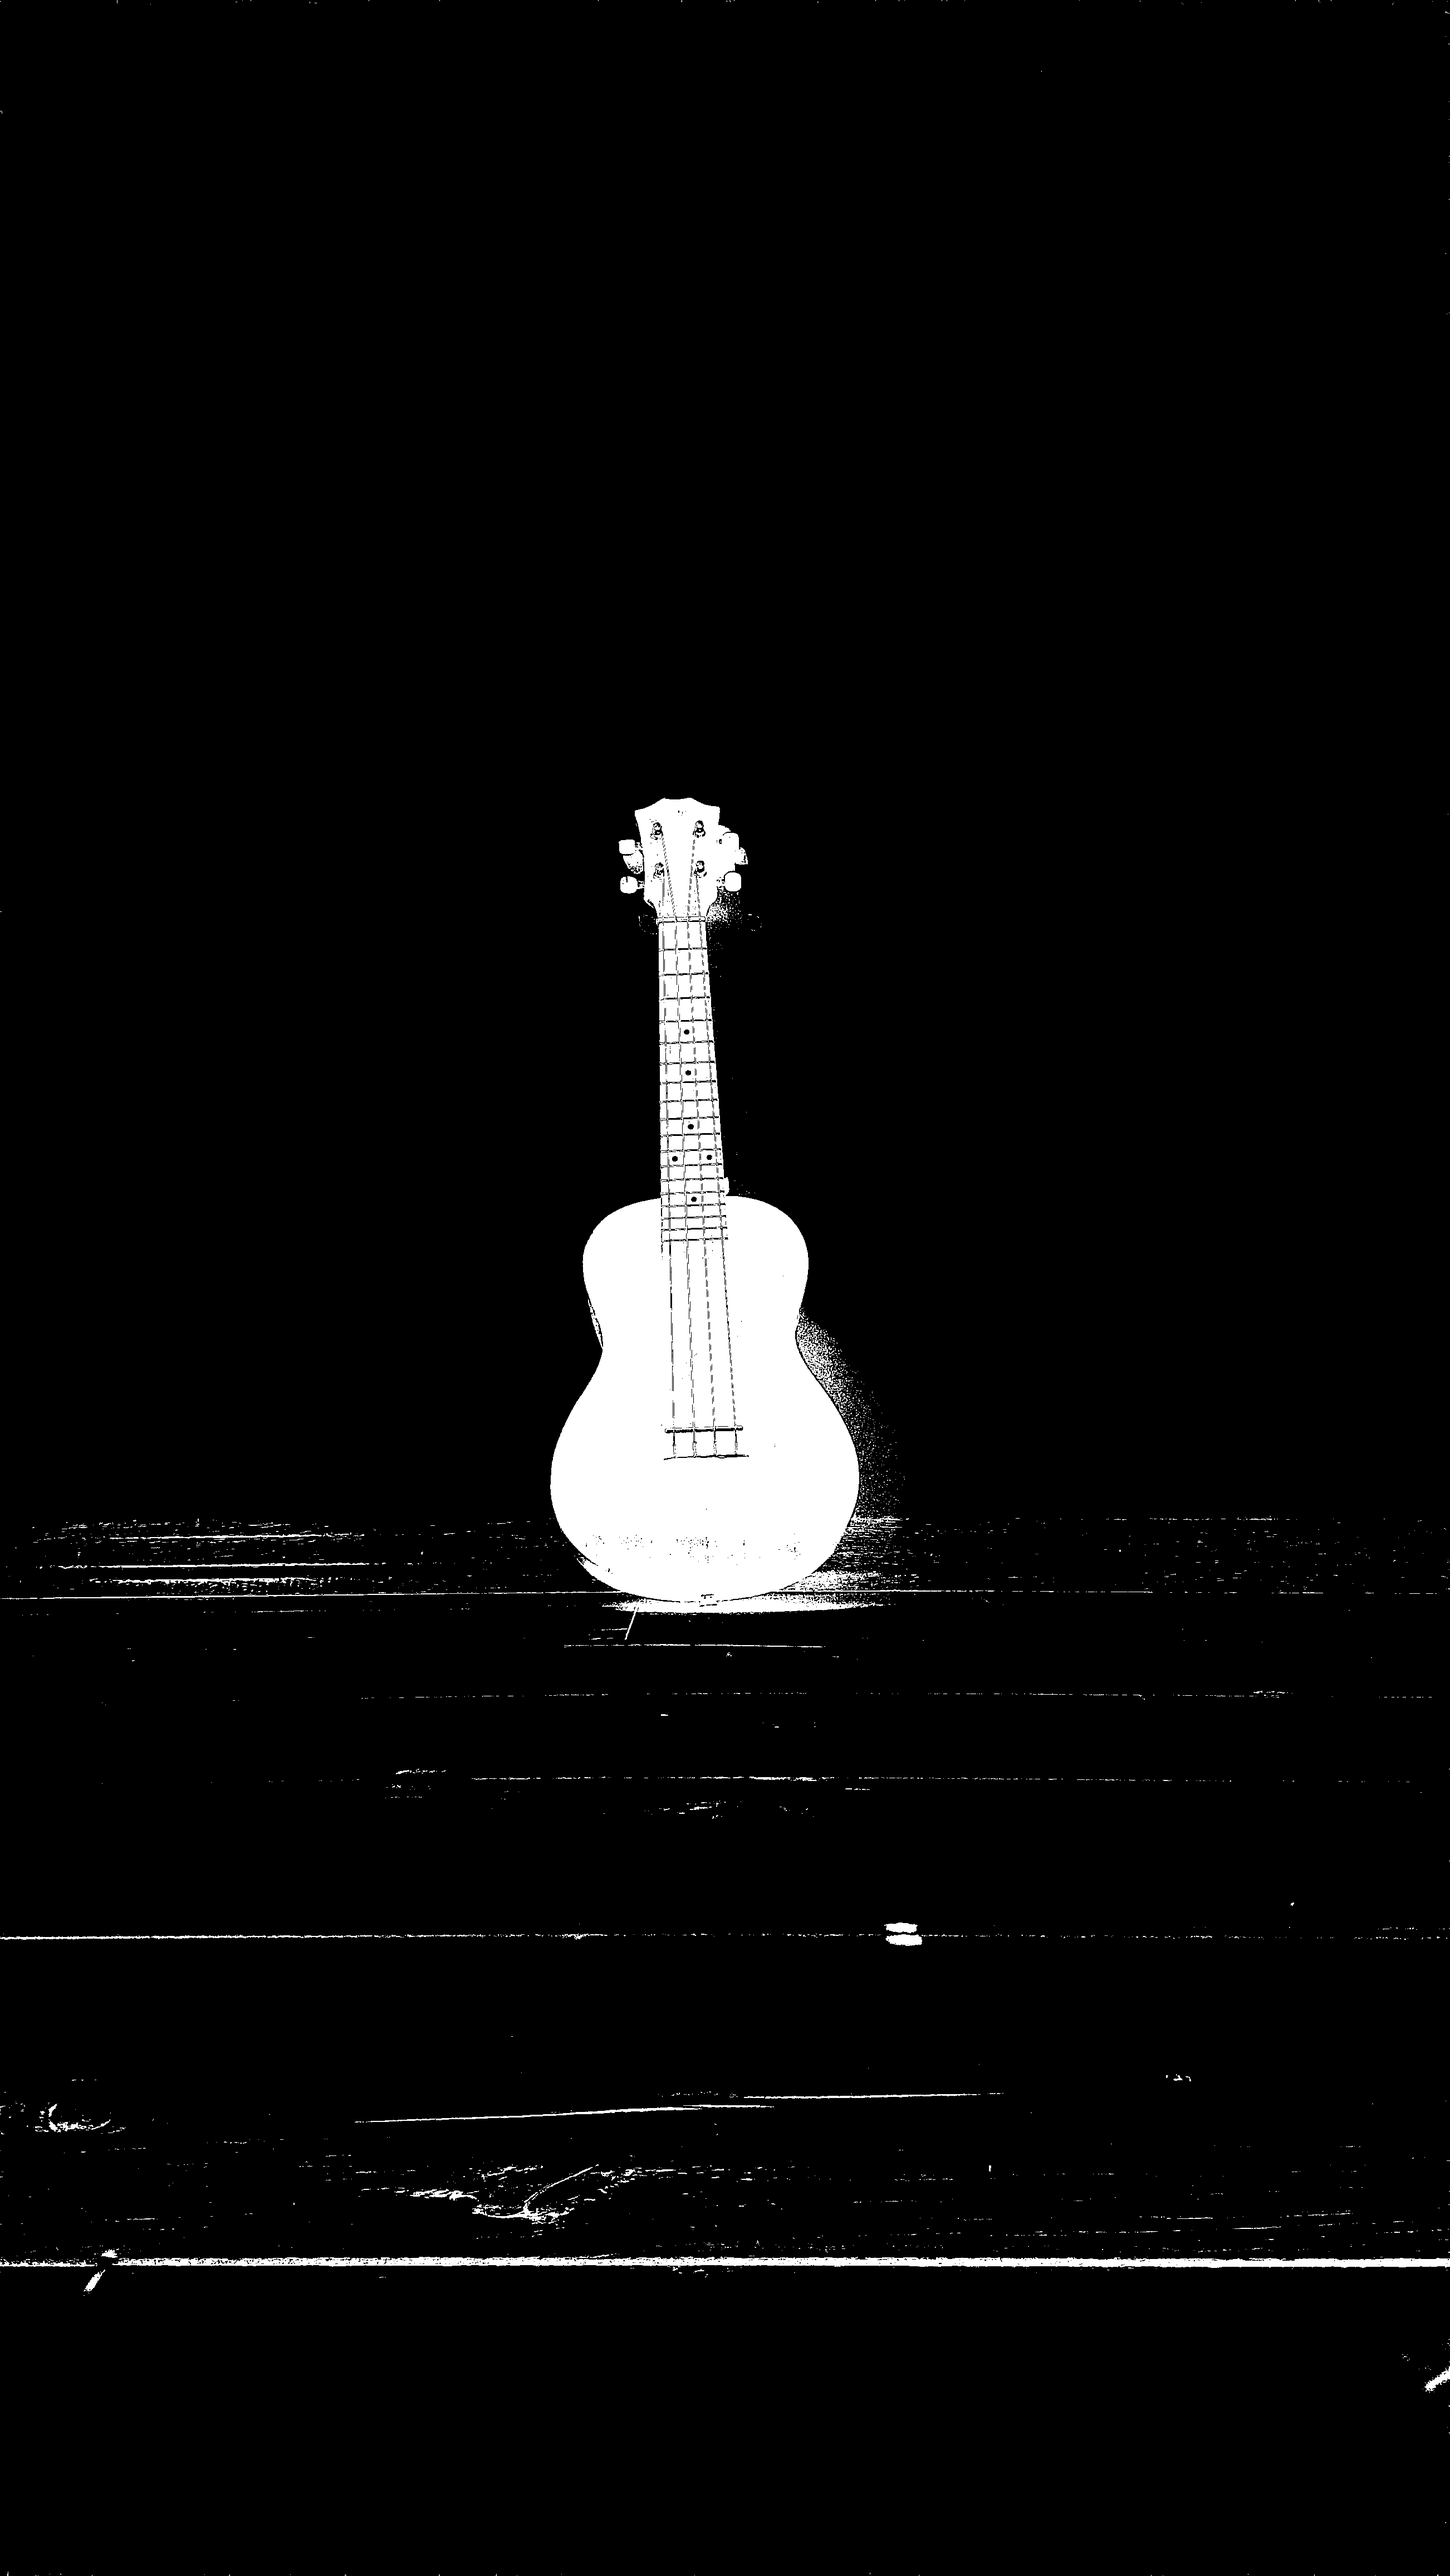
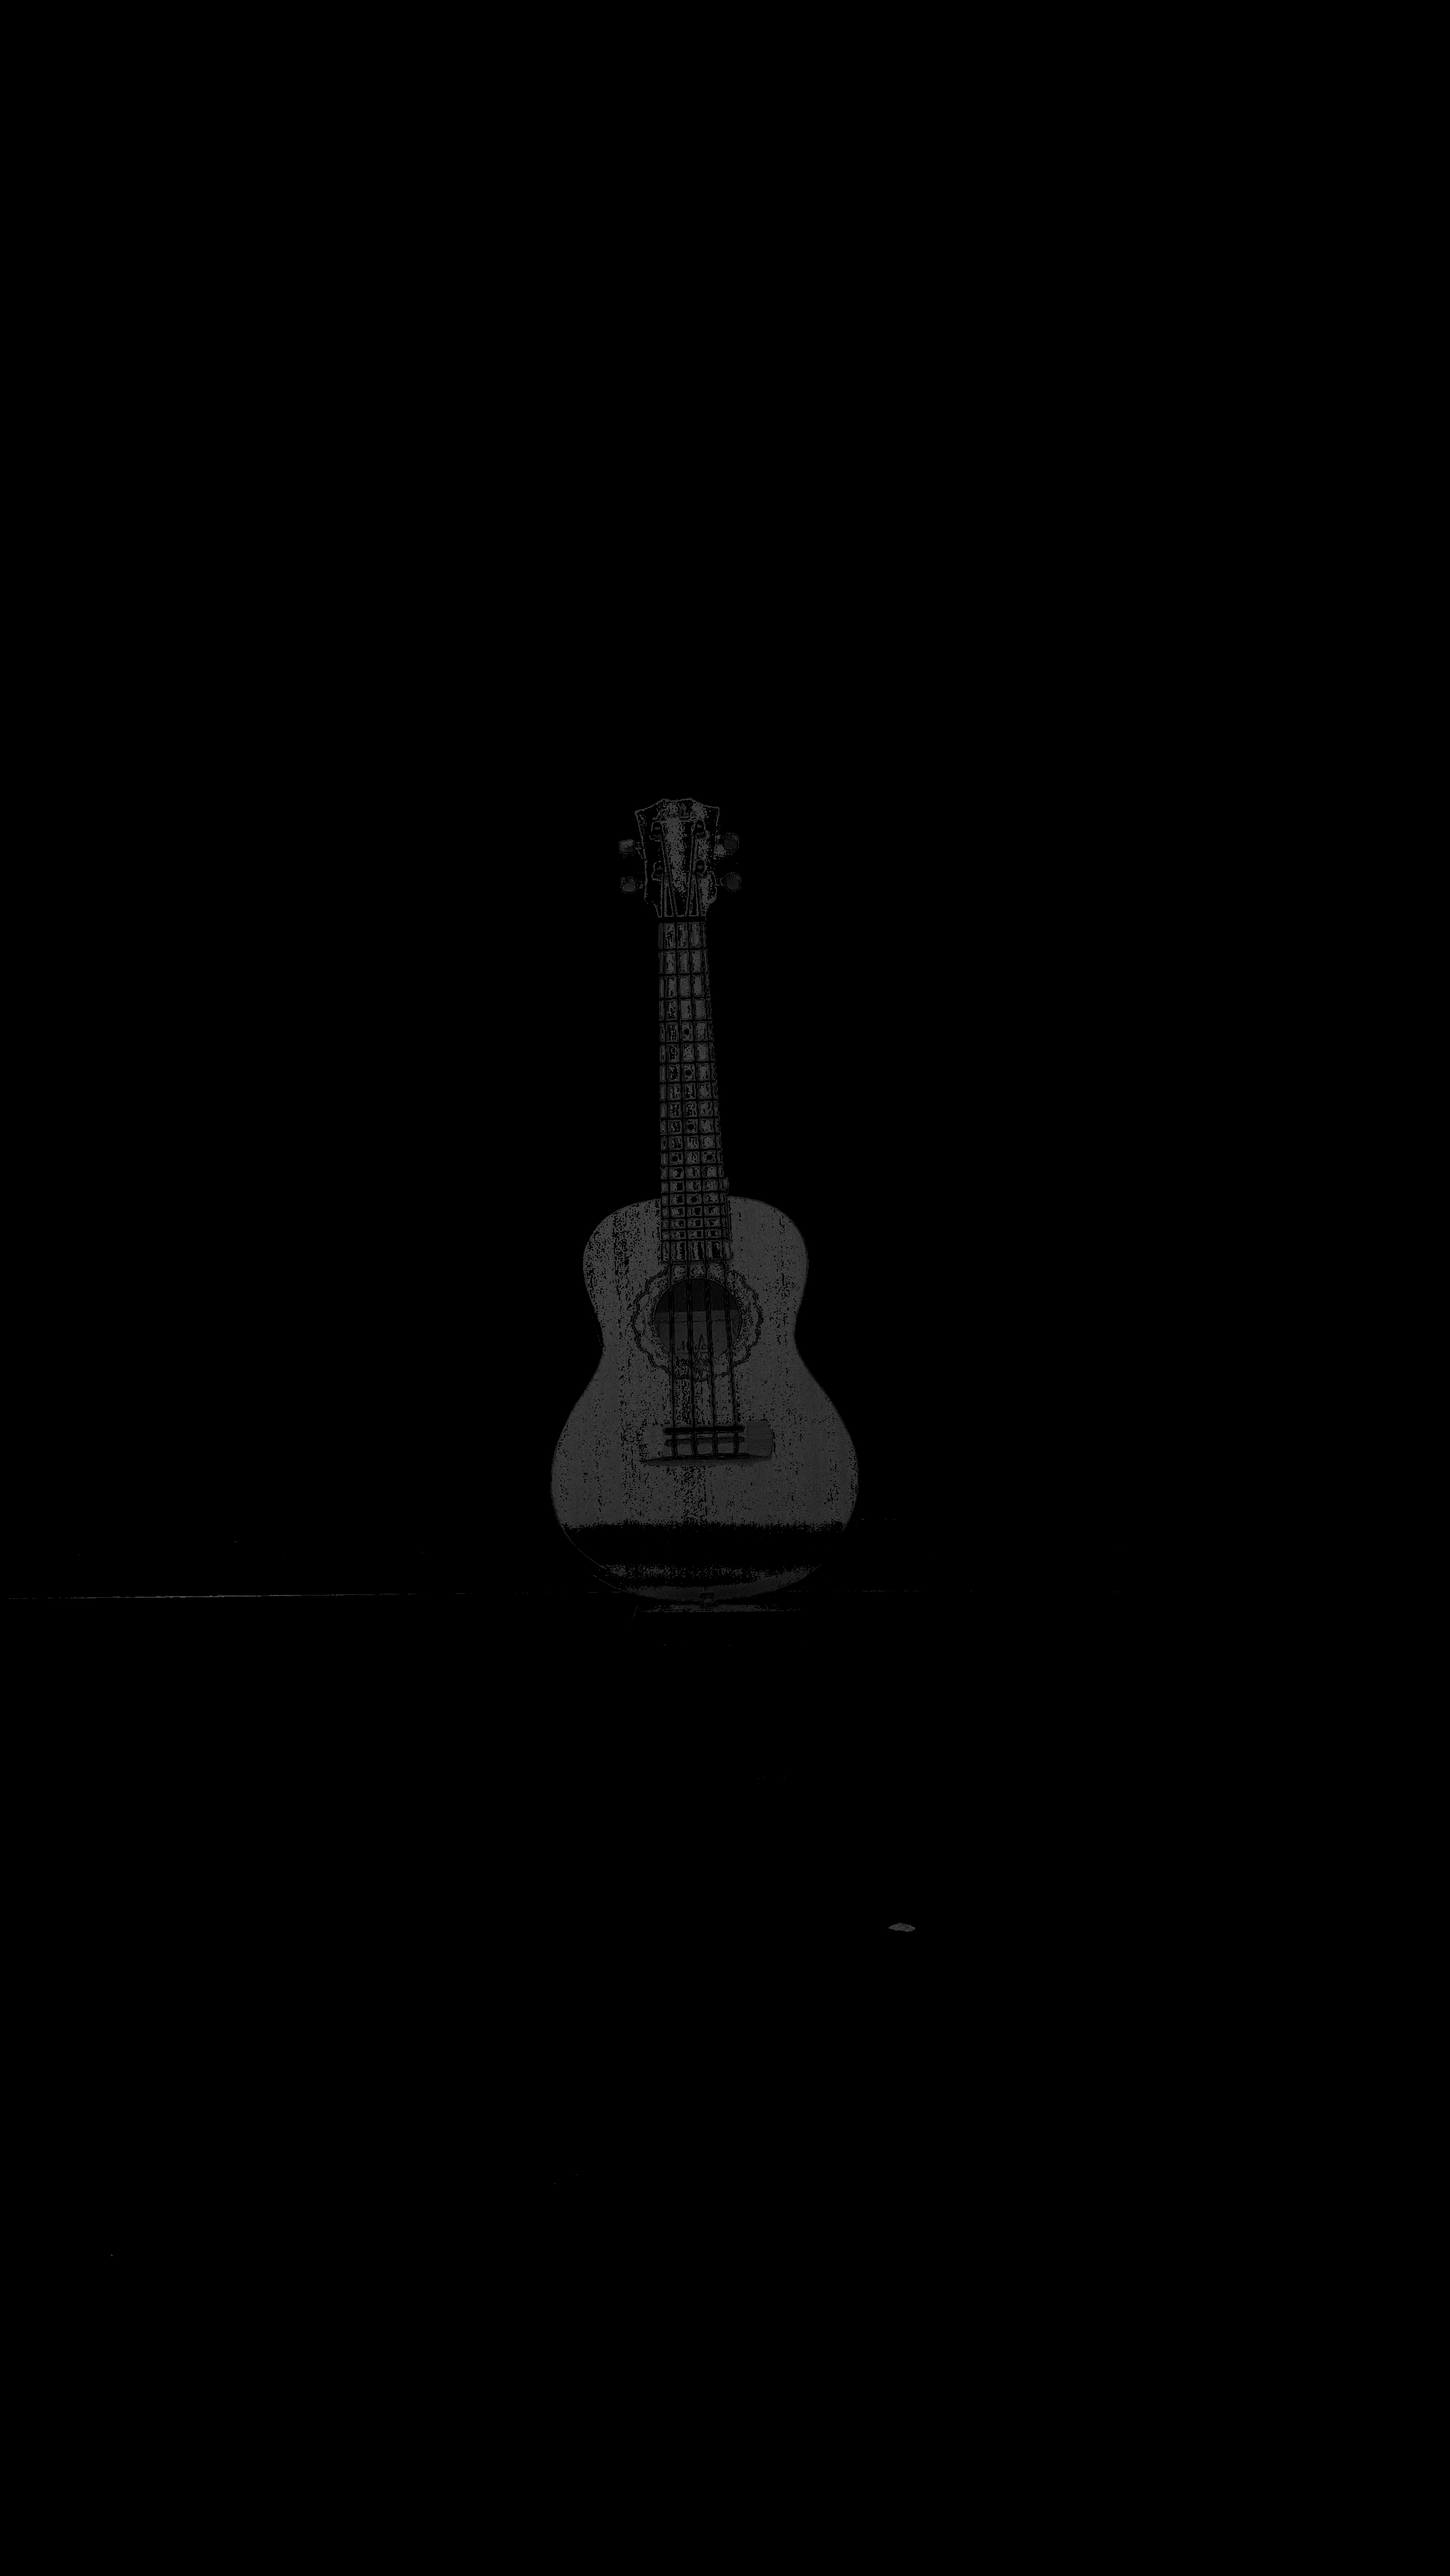
Q_3 RGB and outputs

diff --git a/the1.py b/the1.py
@@ -174,44 +174,34 @@ def desert_or_forest(img):
 def difference_images(img1, img2):
     '''img1 and img2 are the images to take dhe difference
     returns the masked image'''
-    if(len(img1.shape) == 2):#grayscale
-        # Compute the absolute difference directly
-        diff = cv2.absdiff(img1, img2)
-        '''
-        #create a mask where different pixels are 1 and others are 0
-        mask = np.where(diff > 75, 1, 0)
-        #apply the mask
-        masked_image = (mask * img2).astype(np.uint8)
-        ret,thresh = cv2.threshold(diff,0,255,cv2.THRESH_BINARY+cv2.THRESH_OTSU)
-        #ret,thresholding=cv2.threshold(diff, 0, 255,cv2.THRESH_BINARY)
-        #return thresh
-        return masked_image
-        '''
-        diff = diff.astype(np.uint8)
-        # Use Otsu's method on the difference to get an adaptive threshold
-        ret, k = cv2.threshold(diff, 0, 255, cv2.THRESH_OTSU)
-        # Create a mask where the significant differences (above the threshold) are kept
-        mask = np.where(diff > ret, 1, 0).astype(np.uint8)
-        
-        # Apply the mask to one of the original images to extract the object
-        masked_image = (mask * img2).astype(np.uint8)
-        inverse_masked_image = 255-masked_image
-        ret2, thresh = cv2.threshold(inverse_masked_image,0, 255, cv2.THRESH_OTSU)
-        mask2 = np.where(inverse_masked_image < ret2, 1, 0).astype(np.uint8)
-        
-        final_image = (mask2 * img2).astype(np.uint8)
-        return k
 
-    else:#rgb
-        # Compute the absolute difference for each channel
-        diff_r = cv2.absdiff(img1[:, :, 2], img2[:, :, 2])
-        diff_g = cv2.absdiff(img1[:, :, 1], img2[:, :, 1])
-        diff_b = cv2.absdiff(img1[:, :, 0], img2[:, :, 0])
-        # Create a mask where different pixels are 1 and others are 0
-        mask = np.where((diff_r > 25) | (diff_g > 25) | (diff_b > 25), 1, 0)
-        # Apply the mask
-        masked_image = np.stack((mask * img2[:, :, 2], mask * img2[:, :, 1], mask * img2[:, :, 0]), axis=-1)
-        return masked_image
+    if len(img1.shape) < 3 or img1.shape[2] == 1: # Grayscale
+        diff = cv2.absdiff(img1, img2)
+        mask = np.where(diff > 75, 1, 0)
+        masked_image = mask * img2
+        _, masked_image = cv2.threshold(masked_image.astype(np.uint8), 120, 255, cv2.THRESH_TOZERO_INV) # Remove unnecessary differences other than the object
+    else: # RGB
+        hsv1 = cv2.cvtColor(img1, cv2.COLOR_BGR2HSV)
+        hsv2 = cv2.cvtColor(img2, cv2.COLOR_BGR2HSV)
+
+        h1, s1, i1 = hsv1[:, :, 0], hsv1[:, :, 1], hsv1[:, :, 2]
+        h2, s2, i2 = hsv2[:, :, 0], hsv2[:, :, 1], hsv2[:, :, 2]
+
+        h_diff = cv2.absdiff(h1, h2)
+        s_diff = cv2.absdiff(s1, s2)
+        i_diff = cv2.absdiff(i1, i2)
+
+        h_mask = np.where((h_diff > 160) & (h_diff < 170), 1, 0).astype(np.uint8)
+        s_mask = np.where((s_diff < 100), 1, 0).astype(np.uint8)
+        i_mask = np.where((i_diff > 80), 1, 0).astype(np.uint8)
+
+        mask = np.logical_and(s_mask, i_mask).astype(np.uint8)
+        mask = np.logical_and(mask, h_mask).astype(np.uint8)
+        mask = np.repeat(mask[:, :, np.newaxis], 3, axis=2)
+        
+        masked_image = img2 * mask
+
+    return masked_image
 
 if __name__ == '__main__':
     ###################### Q1
